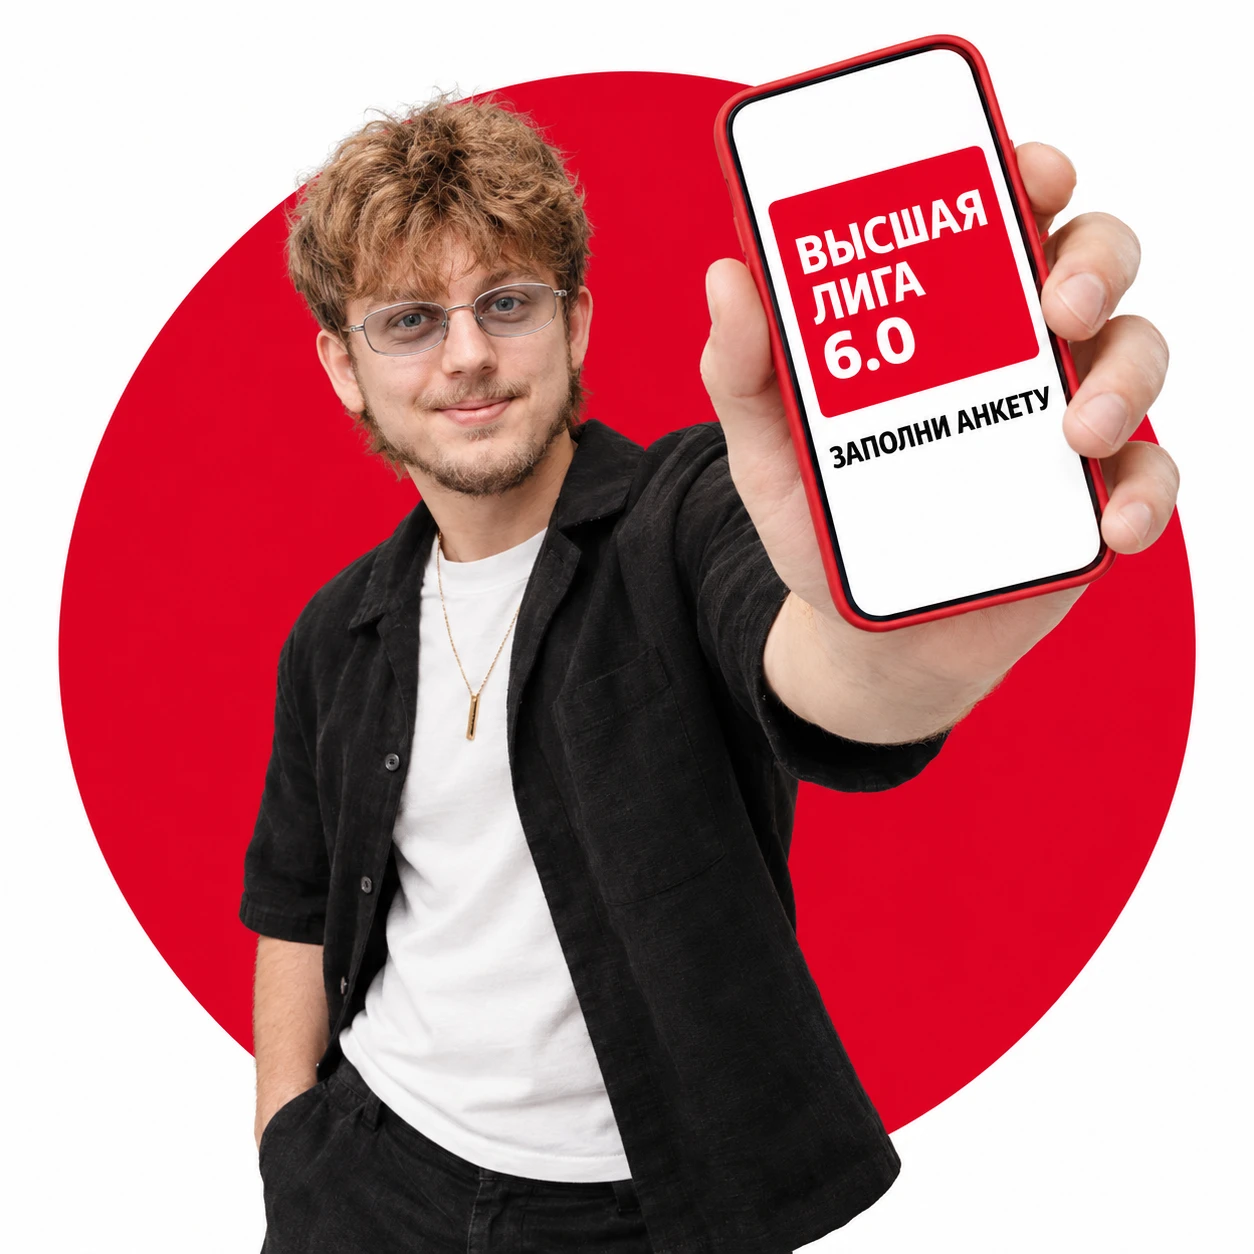
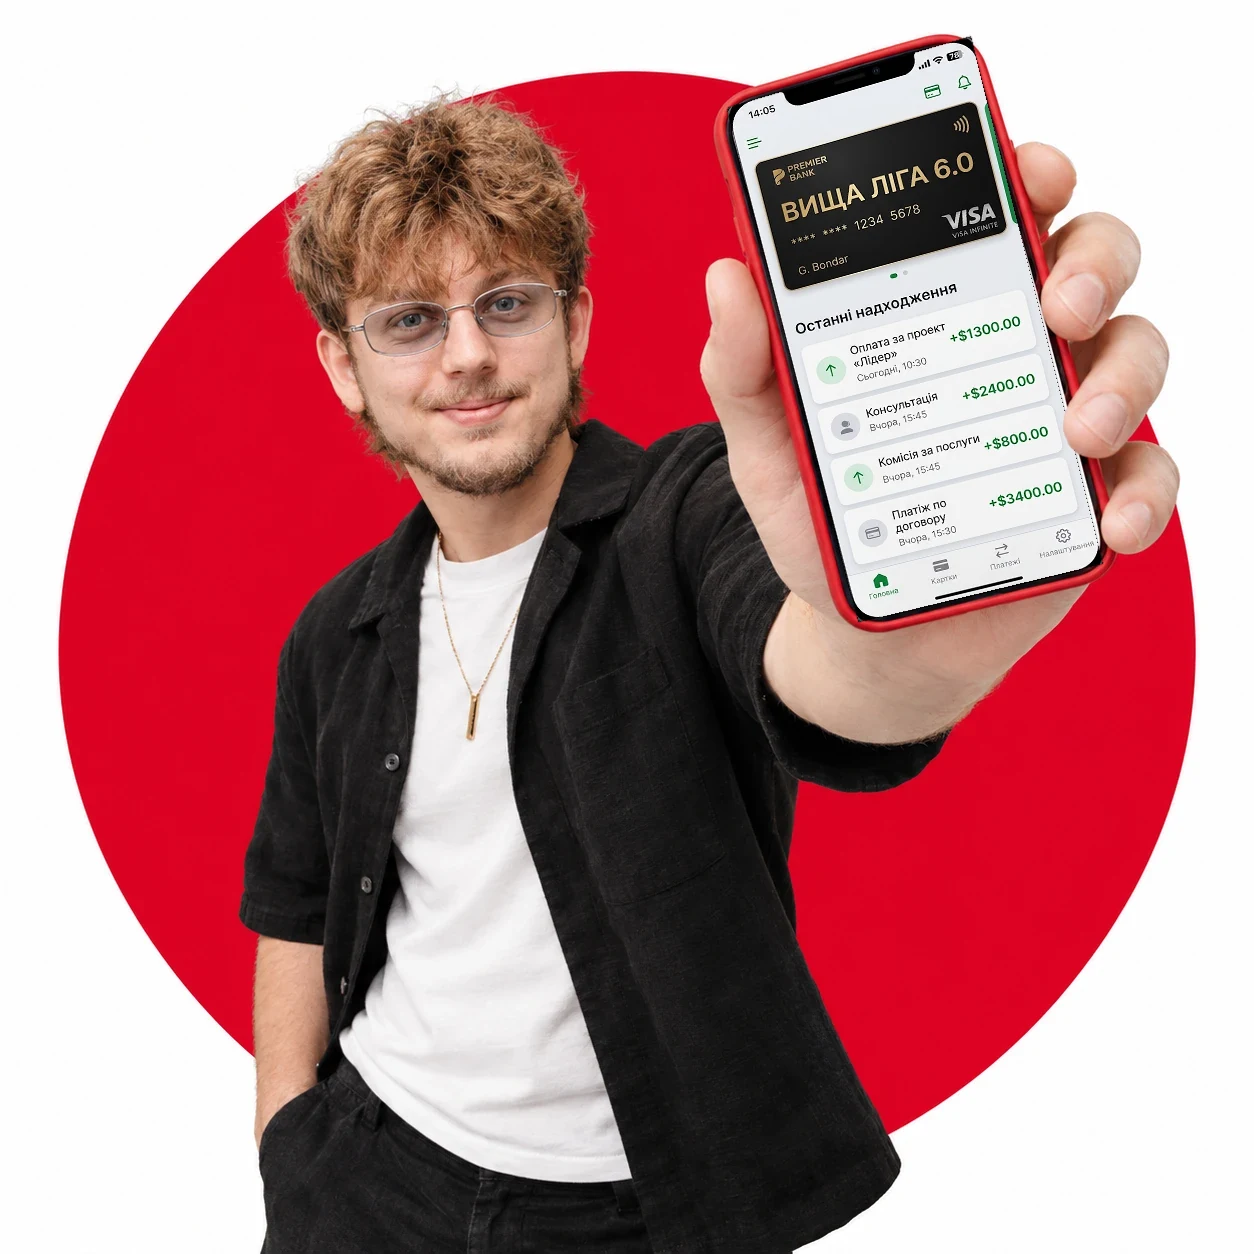
Екран телефона в герої /pre-reg-form-consult: макет застосунку
Замість вмальованого напису на екрані тепер макет застосунку з карткою
«Вища Ліга 6.0» і списком надходжень.

Кути екрана рахуються як перетини чотирьох граней, кожна з яких підігнана
по темній рамці телефона, а не вгадані по найсвітліших пікселях — інакше
під макетом по краю лишалась смужка старого кадру. Пальці лишаються
зверху: малюємо тільки там, де всередині чотирикутника немає шкіри.

Вихідники й скрипт збірки лежать в assets-src, щоб поміняти вміст екрана
можна було однією командою.

Changed region(s): [[0.5909, 0.0311, 0.8708, 0.4976]]

diff --git a/assets-src/consult-phone-screen.py b/assets-src/consult-phone-screen.py
@@ -1,0 +1,115 @@
+# Вклеює скрін застосунку в екран телефона на фото героя /pre-reg-form-consult.
+# Запускати з кореня репозиторію: python assets-src/consult-phone-screen.py
+#
+# Кути екрана рахуються не «на око», а як перетини чотирьох граней. Кожна грань —
+# пряма, підігнана по темній рамці телефона: для лівої й правої беремо внутрішній
+# край бічної рамки, для верхньої й нижньої — де закінчується чорна смуга корпусу.
+# Так чотирикутник лягає рівно на екран, і під скріном не лишається смужок старого кадру.
+#
+# Потрібні Pillow і numpy. Якщо міняється скрін застосунку, досить покласти новий
+# consult-phone-screen.png і запустити знову.
+import os
+
+import numpy as np
+from PIL import Image, ImageDraw, ImageFilter
+
+ROOT = os.path.dirname(os.path.dirname(os.path.abspath(__file__)))
+HERO = os.path.join(ROOT, "assets-src", "consult-hero-original.webp")
+MOCK = os.path.join(ROOT, "assets-src", "consult-phone-screen.png")
+OUT = os.path.join(ROOT, "public", "assets", "img", "consult-hero.webp")
+
+# де в макеті скріна закінчується корпус телефона і починається сам екран
+MOCK_SCREEN = (102, 100, 468, 926)
+
+hero = Image.open(HERO).convert("RGB")
+a = np.asarray(hero).astype(np.int16)
+r, g, b = a[..., 0], a[..., 1], a[..., 2]
+dark = (r < 75) & (g < 75) & (b < 75)
+H, W = dark.shape
+
+
+def fit(pts):
+    """Пряма через точки методом найменших квадратів: повертає (нахил, зсув)."""
+    n = len(pts)
+    sx = sum(p[0] for p in pts); sy = sum(p[1] for p in pts)
+    sxx = sum(p[0] * p[0] for p in pts); sxy = sum(p[0] * p[1] for p in pts)
+    m = (n * sxy - sx * sy) / (n * sxx - sx * sx)
+    return m, (sy - m * sx) / n
+
+
+def edge_run(col_or_row, start, step, vertical=True):
+    """Довжина суцільної темної смуги від краю рамки всередину."""
+    i = start
+    while 0 <= i < (H if vertical else W) and (dark[i, col_or_row] if vertical else dark[col_or_row, i]):
+        i += step
+    return i
+
+
+# бічні грані: у кожному рядку беремо темну смугу рамки зліва і справа від екрана
+left_pts, right_pts = [], []
+for y in range(130, 600, 10):
+    # шукаємо рамку у вузькому вікні навколо очікуваного місця: нижче пояса
+    # в кадр лізе темний піджак, і без вікна найтемніше знаходиться саме він
+    for pts, guess in ((left_pts, 0.252 * y + 702), (right_pts, 0.277 * y + 954)):
+        lo, hi = int(guess) - 30, int(guess) + 30
+        xs = np.nonzero(dark[y, lo:hi])[0] + lo
+        if not len(xs):
+            continue
+        pts.append((y, edge_run(y, xs.min(), 1, vertical=False) if pts is left_pts else xs.min()))
+mL, cL = fit(left_pts)      # x = mL*y + cL — перший піксель екрана зліва
+mR, cR = fit(right_pts)     # x = mR*y + cR — перший піксель рамки справа
+
+# верхня й нижня грані: у кожному стовпці шукаємо, де закінчується чорна смуга корпусу
+top_pts, bot_pts = [], []
+for x in range(770, 960, 15):
+    ys = np.nonzero(dark[20:300, x])[0] + 20
+    if len(ys):
+        top_pts.append((x, edge_run(x, ys.min(), 1)))
+for x in range(880, 1090, 15):
+    ys = np.nonzero(dark[400:700, x])[0] + 400
+    if len(ys):
+        bot_pts.append((x, edge_run(x, ys.max(), -1)))
+mT, cT = fit(top_pts)       # y = mT*x + cT
+mB, cB = fit(bot_pts)       # y = mB*x + cB
+
+
+def cross(mx, cx, my, cy):
+    """Перетин вертикальної грані x = mx*y + cx з горизонтальною y = my*x + cy."""
+    y = (my * cx + cy) / (1 - my * mx)
+    return np.array([mx * y + cx, y])
+
+
+tl, tr = cross(mL, cL, mT, cT), cross(mR, cR, mT, cT)
+br, bl = cross(mR, cR, mB, cB), cross(mL, cL, mB, cB)
+quad = [tl, tr, br, bl]
+# на пів-пікселя назовні, щоб по краю не лишилось волосини старого кадру
+mid = sum(quad) / 4
+quad = [c + (c - mid) * 0.004 for c in quad]
+print("кути екрана:", [tuple(c.round().astype(int)) for c in quad])
+
+mock = Image.open(MOCK).convert("RGB").crop(MOCK_SCREEN)
+mw, mh = mock.size
+
+# коефіцієнти PIL перетворюють координату виходу в координату входу, тому пари йдуть dst -> src
+A, B = [], []
+for (dx, dy), (sx, sy) in zip(quad, [(0, 0), (mw, 0), (mw, mh), (0, mh)]):
+    A.append([dx, dy, 1, 0, 0, 0, -sx * dx, -sx * dy]); B.append(sx)
+    A.append([0, 0, 0, dx, dy, 1, -sy * dx, -sy * dy]); B.append(sy)
+coeffs = np.linalg.solve(np.array(A, float), np.array(B, float))
+warped = mock.transform(hero.size, Image.PERSPECTIVE, coeffs, Image.BICUBIC)
+
+# Малюємо тільки там, де екран справді видно: чотирикутник мінус пальці.
+# Шкіра — червоний більший за зелений, зелений за синій; екран під це не підпадає.
+shape = Image.new("L", (W * 2, H * 2), 0)
+ImageDraw.Draw(shape).polygon([tuple(c * 2) for c in quad], fill=255)
+inside = np.asarray(shape.resize((W, H), Image.BILINEAR)) > 127
+skin = (r > 110) & (r > g + 8) & (g > b + 4)
+m = Image.fromarray(((inside & ~skin) * 255).astype(np.uint8), "L")
+# дрібні дірки від підсвічених країв старого напису закриваємо, пальці лишаються
+m = m.filter(ImageFilter.MaxFilter(11)).filter(ImageFilter.MinFilter(11))
+m = m.filter(ImageFilter.GaussianBlur(0.6))
+
+out = hero.copy()
+out.paste(warped, (0, 0), m)
+out.save(OUT, "WEBP", quality=88, method=6)
+print("готово:", OUT)

diff --git a/assets-src/README.md b/assets-src/README.md
@@ -10,6 +10,14 @@
 | `team-gradient.png` | те саме фото цілком, зі згасанням по всіх чотирьох краях | версія для Figma, на сайті не використовується |
 | `sasha-studio-original.jpg` | студійний портрет на білому | `public/assets/img/sasha-studio.webp` — вирізаний із фону, низ торса і плечі розчиняються в прозорість |
 | `arrow-original.webp` | золота стрілка, надана Дмитром | була `public/assets/img/arrow.webp` (знята з лендінга 28.10) |
+| `consult-hero-original.webp` | згенерований кадр: Саша на червоному колі з телефоном, на екрані вмальований напис | основа для `public/assets/img/consult-hero.webp` |
+| `consult-phone-screen.png` | макет екрана застосунку з карткою «Вища Ліга 6.0» | вклеюється в екран телефона на тому ж кадрі |
+
+Кадр героя для `/pre-reg-form-consult` збирається скриптом
+`python assets-src/consult-phone-screen.py` (треба Pillow і numpy). Він сам
+знаходить чотирикутник екрана на фото і вкладає туди макет у перспективі,
+не зачіпаючи пальці. Щоб поміняти вміст екрана, досить покласти новий
+`consult-phone-screen.png` і запустити скрипт знову.
 
 Згасання запікається в альфу самого файлу, а не маскою в CSS: так воно
 лягає на стелю й підлогу кадру, а не ріже людям голови й руки.
